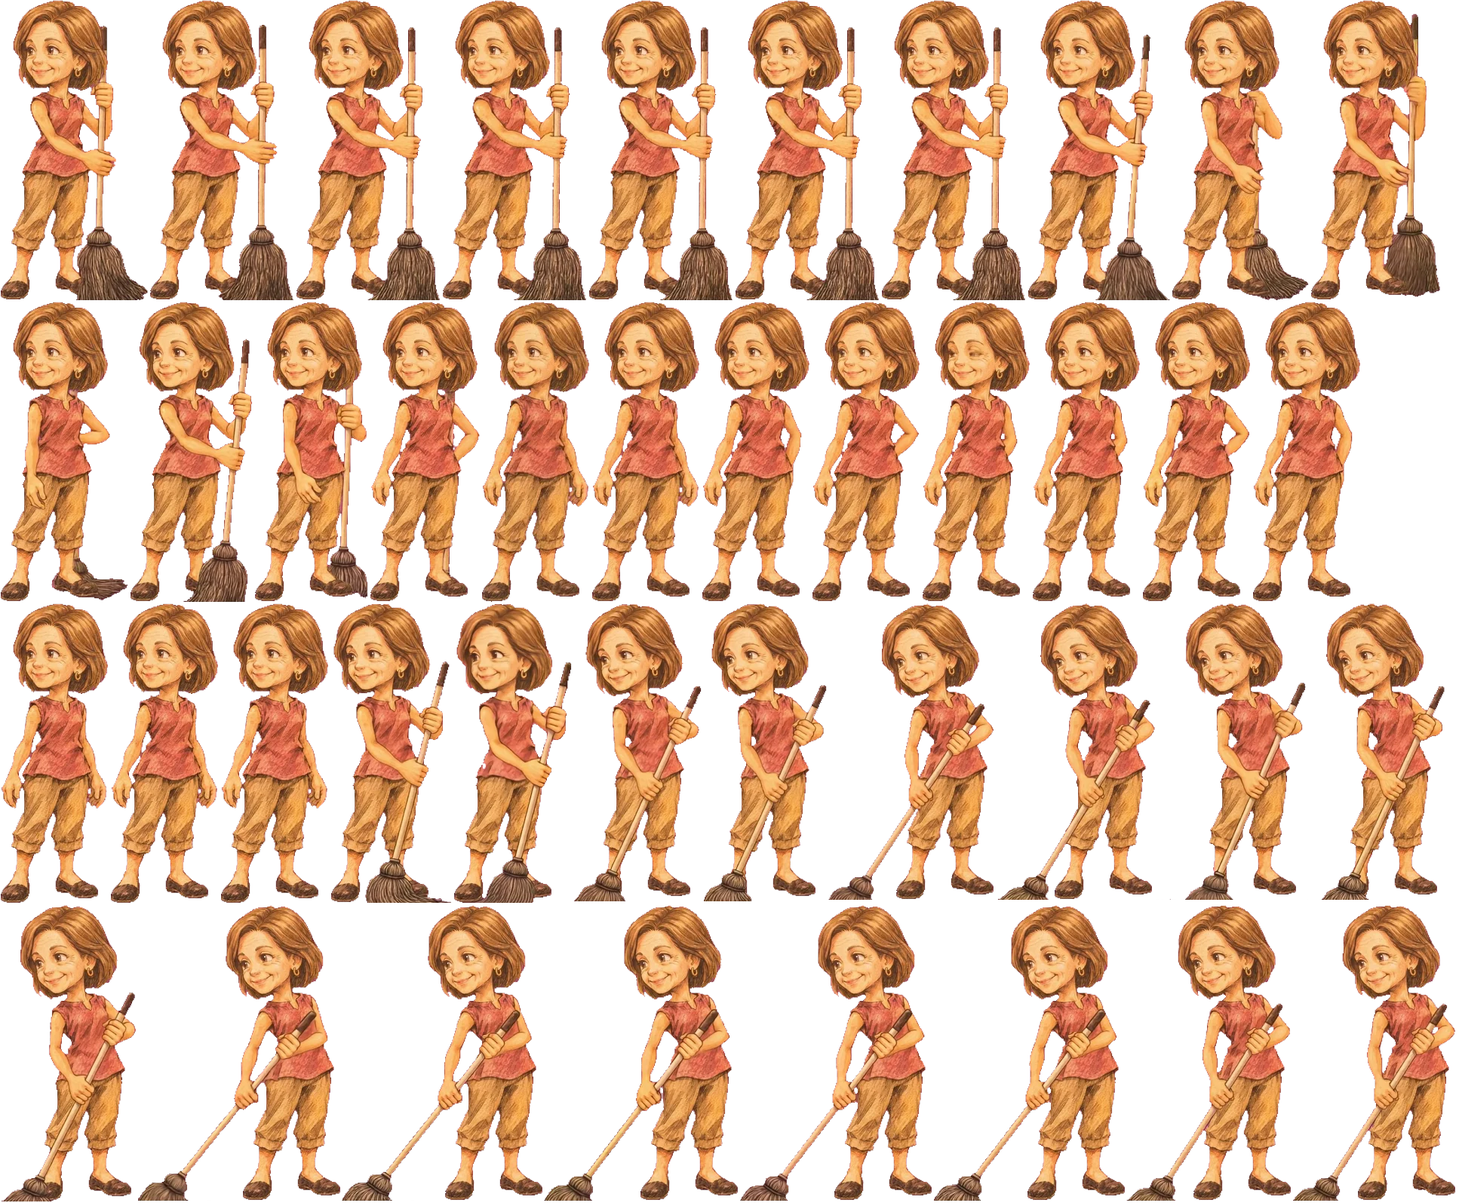
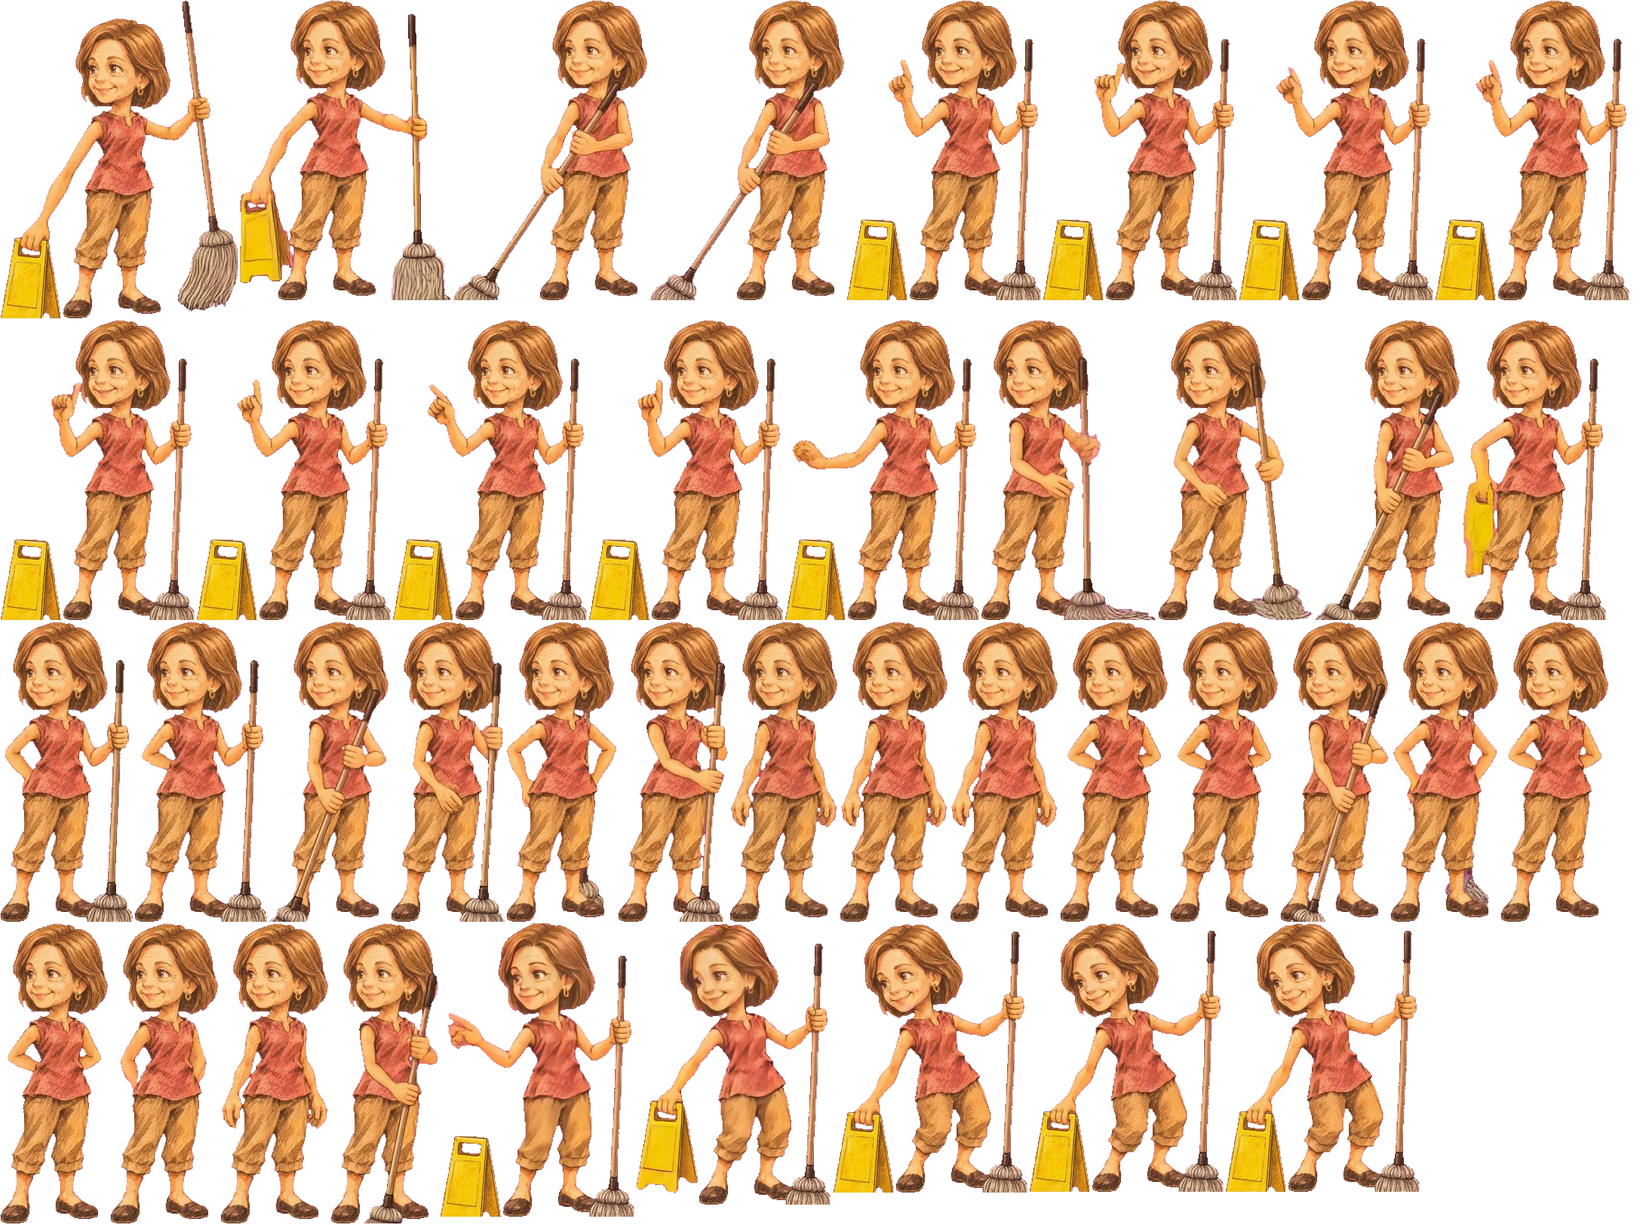
wanpurpose1: the video check judges the move's purpose, not every word; Deedee's Wet-Floor uses the take with the wet-floor sign
Claude-Session: https://claude.ai/code/session_01RXeukEJKXVspWj8C79SgbR

diff --git a/data/clips/deedee-wetfloor.js b/data/clips/deedee-wetfloor.js
@@ -1,5 +1,5 @@
 'use strict';
 // data/clips/deedee-wetfloor.js: GENERATED by tools/clip-bake/bake_clip.py; do not hand-edit. Read by engine/clips.js.
-// Source frames 0 to 120 of the video, every 3, impact at video frame 51, played at 1.5x.
-// Baked from: wanstuck1 by eye: deedee-wetfloor-r9.mp4 (string mop; the look check failed it on "once" and "from behind her back")
-bclipDefine("deedee_wetfloor",{"owner":"deedee","src":"art/clips/deedee-wetfloor.webp?v=wanstuck1","k":4,"w":108,"h":101,"n":41,"rects":[[638,400,144,398,144,6],[784,400,144,398,144,6],[930,400,144,398,144,6],[1076,400,144,398,144,6],[1222,400,144,398,144,6],[1368,400,144,398,144,6],[490,400,146,398,144,6],[337,400,151,398,144,6],[1737,0,172,398,144,6],[198,0,192,398,144,6],[392,0,192,398,144,6],[586,0,192,398,144,6],[1362,0,189,398,144,6],[438,800,161,397,144,7],[932,800,164,395,125,9],[1098,800,219,393,55,11],[721,1200,257,392,17,12],[453,1200,266,392,8,12],[1493,1200,218,392,56,12],[0,1200,181,393,100,11],[1533,800,198,393,89,11],[1733,800,182,393,102,11],[1713,1200,216,392,58,12],[980,1200,255,392,19,12],[183,1200,268,392,6,12],[1237,1200,254,392,20,12],[1319,800,212,393,66,11],[760,800,170,395,119,9],[601,800,157,397,144,7],[172,400,163,398,144,6],[780,0,192,398,144,6],[974,0,192,398,144,6],[1168,0,192,398,144,6],[0,0,196,398,144,6],[1553,0,182,398,144,6],[0,400,170,398,144,6],[1514,400,144,398,144,6],[1660,400,144,398,144,6],[0,800,144,398,144,6],[146,800,144,398,144,6],[292,800,144,398,144,6]],"ms":[0,83,167,250,333,417,500,583,667,750,833,917,1000,1083,1167,1250,1333,1417,1500,1583,1667,1750,1833,1917,2000,2083,2167,2250,2333,2417,2500,2583,2667,2750,2833,2917,3000,3083,3167,3250,3333],"dur":3417,"kind":"strike","impact":17,"reach":[52.0,2.2],"feet":[[-1.8,32.2],[-1.8,32.2],[-1.8,32.2],[-1.8,32.2],[-1.8,32.2],[-1.8,32.2],[-1.8,32.2],[0.8,37.2],[3.5,42.8],[5.9,47.5],[5.9,47.5],[5.9,47.5],[5.5,46.8],[2.0,39.8],[-4.1,37.0],[-13.0,54.8],[-17.8,64.2],[-18.9,66.5],[-12.8,54.2],[-7.1,43.0],[-6.5,41.8],[-4.8,38.2],[-12.5,53.8],[-17.4,63.5],[-19.1,67.0],[-17.2,63.2],[-11.1,51.0],[-4.9,38.5],[-1.8,32.2],[1.5,38.8],[5.9,47.5],[5.9,47.5],[5.9,47.5],[6.5,48.8],[4.6,45.0],[3.1,42.0],[-1.8,32.2],[-1.8,32.2],[-1.8,32.2],[-1.8,32.2],[-1.8,32.2]]});
+// Source frames 0 to 117 of the video, every 3, impact at video frame 60, played at 1.25x.
+// Baked from: wanpurpose1 by eye: deedee-wetfloor-a2-r10.mp4 (string mop sweep, wet-floor sign set down, finger wag); the motion check failed it on details only
+bclipDefine("deedee_wetfloor",{"owner":"deedee","src":"art/clips/deedee-wetfloor.webp?v=clip0","k":4,"w":98,"h":107,"n":40,"rects":[[967,824,144,398,124,30],[1113,824,144,398,124,30],[1259,824,144,398,124,30],[1405,824,144,398,124,30],[1551,824,144,398,124,30],[671,824,146,398,124,30],[1535,424,206,398,124,30],[1300,424,233,398,124,30],[438,1224,143,398,124,30],[356,824,160,398,108,30],[600,0,259,398,9,30],[861,0,259,398,9,30],[1743,424,193,398,75,30],[1697,824,144,398,124,30],[819,824,146,398,124,30],[518,824,151,398,124,30],[0,824,176,398,124,30],[178,824,176,398,124,30],[1938,424,192,398,108,30],[843,1224,259,373,41,55],[1364,1224,258,356,41,72],[1624,1224,258,356,41,72],[1104,1224,258,357,41,71],[583,1224,258,389,41,39],[1122,0,258,398,41,30],[1382,0,258,398,41,30],[1642,0,258,398,41,30],[1902,0,258,398,41,30],[0,424,258,398,41,30],[260,424,258,398,41,30],[520,424,258,398,41,30],[780,424,258,398,41,30],[1040,424,258,398,41,30],[0,0,316,422,41,6],[318,0,280,398,74,30],[1843,824,144,398,124,30],[1989,824,144,398,124,30],[0,1224,144,398,124,30],[146,1224,144,398,124,30],[292,1224,144,398,124,30]],"ms":[0,100,200,300,400,500,600,700,800,900,1000,1100,1200,1300,1400,1500,1600,1700,1800,1900,2000,2100,2200,2300,2400,2500,2600,2700,2800,2900,3000,3100,3200,3300,3400,3500,3600,3700,3800,3900],"dur":4000,"kind":"strike","impact":20,"reach":[38.5,8.5],"feet":[[-1.8,32.2],[-1.8,32.2],[-1.8,32.2],[-1.8,32.2],[-1.8,32.2],[-1.8,32.2],[7.5,50.8],[11.0,57.8],[-1.8,32.2],[-3.8,36.2],[-16.1,61.0],[-16.1,61.0],[-7.9,44.5],[-1.8,32.2],[-0.5,34.8],[0.8,37.2],[4.0,43.8],[4.0,43.8],[3.9,43.5],[-6.5,64.2],[-6.5,64.2],[-6.5,64.2],[-6.5,64.2],[-6.5,64.2],[-6.5,64.2],[-6.5,64.2],[-6.5,64.2],[-6.5,64.2],[-6.5,64.2],[-6.5,64.2],[-6.5,64.2],[-6.5,64.2],[-6.5,64.2],[-0.6,76.0],[4.2,69.8],[-1.8,32.2],[-1.8,32.2],[-1.8,32.2],[-1.8,32.2],[-1.8,32.2]]});

diff --git a/index.html b/index.html
@@ -1654,7 +1654,7 @@ html.landscape:not(.tablet):not(.duo) #battle.v2 .b2-x{font-size:17px}html.lands
 <script src="data/clips/toad-slam.js?v=clip0"></script>
 <script src="data/clips/skeeter-whine.js?v=artbake1573"></script>
 <script src="data/clips/skeeter-bite.js?v=wanch3"></script>
-<script src="data/clips/deedee-wetfloor.js?v=wanstuck1"></script>
+<script src="data/clips/deedee-wetfloor.js?v=wanpurpose1"></script>
 <script src="data/clips/rose-giddyup.js?v=clip0"></script>
 <script src="data/tombo-frames.js"></script>
 <script src="engine/tombo-frames.js"></script>
@@ -1980,7 +1980,7 @@ html.landscape:not(.tablet):not(.duo) #battle.v2 .b2-x{font-size:17px}html.lands
 <script src="engine/emotions.js?v=qa-bug02"></script>
 <script src="engine/script-edits.js?v=scripted2"></script><!-- Script Editor overlay: Tom's line edits applied before a scene plays (script.html) --><!-- mood faces and poses in story dialogue (batch 0: chapter 1) -->
 <script src="engine/tapwalk.js?v=bossbig1"></script><!-- tap to walk -->
-<script src="data/build-history.js?v=menu4"></script><!-- build names and times (tools/build_history.py) -->
+<script src="data/build-history.js?v=wanpurpose1"></script><!-- build names and times (tools/build_history.py) -->
 <script src="engine/build-history.js?v=buildpill1"></script><!-- build label on the welcome screen and menu, tap for the build history -->
 <script src="engine/m2-core.js?v=menu4"></script><!-- the main menu (menu1, the only menu since menu4) -->
 <script src="engine/m2-family.js?v=menu1"></script><!-- its Family page -->
@@ -1990,7 +1990,7 @@ html.landscape:not(.tablet):not(.duo) #battle.v2 .b2-x{font-size:17px}html.lands
 <script src="engine/block-break.js?v=ch7t1"></script><!-- breaking an orange block: coin, cracks, colour ring, shrink-back, encounters off (ch6build stage 2) -->
 <script src="engine/scene-props.js?v=qa-coh07"></script><!-- drawn stand-in props a scene can put on a map: the chart, Rose rolled up, the gold ball, bulbs (ch7build stage 2) -->
 <script src="engine/video-call.js?v=ch6s4"></script><!-- the video call at the end of chapter 6: Long Island seen from Tom's porch (ch6build stage 4) -->
-<script src="engine/main.js?v=menu4"></script>
+<script src="engine/main.js?v=wanpurpose1"></script>
 <script src="engine/music.js"></script>
 <script src="data/songs.js"></script>
 <script src="engine/music-clips.js?v=adminvol1"></script>

diff --git a/data/build-history.js b/data/build-history.js
@@ -1,5 +1,6 @@
 // Generated by tools/build_history.py. Do not edit by hand. Newest first.
 const BUILD_HISTORY=[
+{"tag":"wanpurpose1","at":"2026-11-21T21:52:44-08:00","what":"The video check judges the move's purpose, not every word; Deedee's Wet-Floor uses the take with the wet-floor sign","card":"c-wanpurpose1","theme":"Battle Animations"},
 {"tag":"menu4","at":"2026-11-22T05:48:58+00:00","what":"The new menu is the only menu and the old one is gone","card":"c-menu4","theme":"Game Shell"},
 {"tag":"videohist2","at":"2026-11-22T05:34:11+00:00","what":"Video History rebuilds itself after every video run","card":"c-videohist-auto","theme":"Battle Animations"},
 {"tag":"videohist1","at":"2026-11-21T21:26:25-08:00","what":"ADMIN > VIDEO HISTORY shows every battle video, whether it is in the game, and why the checks rejected the rest","card":"c-videohist1","theme":"Battle Animations"},

diff --git a/engine/main.js b/engine/main.js
@@ -110,7 +110,7 @@ startSplash();
   const d=document.createElement('button');
   d.type='button'; d.id='build-stamp'; d.setAttribute('aria-label','Build history');
   // On an iPhone Duo the stamp also shows the page size and pose the game measured, so Tom can read them back (docs/DUO.md).
-  d.textContent='build menu4';
+  d.textContent='build wanpurpose1';
   const build=d.textContent,stamp=()=>{ const w=typeof buildWhenLabel==='function'?buildWhenLabel(build.slice(6)).slice(2):'', duo=typeof duoMode!=='undefined'&&duoMode.device?window.innerWidth+'x'+window.innerHeight+(duoMode.open?' duo open':' duo folded'):'';
     d.textContent=build; for(const t of [w,duo]) if(t){ const s=document.createElement('small'); s.textContent=t; d.appendChild(s); } };
   window.BUILD_TAG=build.slice(6);

diff --git a/tools/art-library/wanbulk.py b/tools/art-library/wanbulk.py
@@ -158,7 +158,7 @@ def stop_card(r, job, card, run, today, bud=None, cfg=None):
             'Its files are on branch wangen: %s-r%d-result.json (every check with numbers and the look-check answers) and the videos %s. '
             'First look at the pictures yourself (ffmpeg contact sheet of each video) and say in one line what really happens. '
             'Then change ONE thing in the job by that cause (the prompt sentence that causes it, the pad, or the start picture), keeping everything else (CLAUDE.md, Fix a miss with the smallest change), '
-            'raise rev by one and say in `why` what was kept and what changed. If both videos look like they meet the motion and the checks are wrong, say so in a history line, change nothing and stop: that is a check problem for Tom. '
+            'raise rev by one and say in `why` what was kept and what changed. But first: if a video does the move\'s main action and reads as the move (Tom 2026-11-21: it does not have to be perfect in every single way, it has to complete the overall purpose and theme), accept it instead of trying again: bake and wire it with tools/art-library/wanbake.py (bake() and wire() with the job\'s own settings), add its job to the open Tom watch card (field wanwatch) or make one, write the CHANGES heading and push, and start no new try. Only the measured faults that break the game picture (cut off at the edge, background not flat, feet sliding, a different person) always need a new try. '
             'Never make a painted pose and never run wangen.py yourself. Start the next try in the same push: set `wgen` on card %s to {"want": true, "at": now, "n": 1, "est": %.2f, "auto": true}, '
             'keep the job in its `wan.jobs`, write the CHANGES heading `## %s` and run bump_tags, and make the LAST commit of the push have exactly the subject `board: wan generate %s` (that starts the wan-gen Action). '
             'Your first push is the commit board: start %s. Attach trivituso81/adventures-of-tom with push access (add_repo).') % (

diff --git a/tools/art-library/wanbulk_test.py b/tools/art-library/wanbulk_test.py
@@ -16,6 +16,7 @@ a local bare git remote plays GitHub. The run is the real script on a depth 1 cl
   B9  wanauto1: a miss that is not only the edge is re-rolled once with the same settings (same start picture) before it stops
   B10 wanauto1: budget() counts one animation's videos since its auto_from (4 tries, $3.20) and every video of the day ($15)
   B11 wanauto1: an animation out of tries gets one Tom decide card instead of a Claude card
+  B13 wanpurpose1: the motion check asks one question about the move's main action, not one strict question per sentence
   B12 wanstuck1: Tom's "Give it 4 more tries" answer resets that job's count; the card names the run's card
 Prints ALL PASS."""
 import os, sys, io, json, re, shutil, subprocess, tempfile, threading, base64, time, urllib.request
@@ -302,6 +303,11 @@ ok(mt == {'j': '2026-11-22T04:29:46.570Z'} and jobs_m['j']['auto_from'] == '2026
    'B12 "Give it 4 more tries" starts that job\'s count again from the answer time; another job or another answer changes nothing', mt)
 gc2 = wanbulk.gaveup_card('j', 3, 'x', None, '2026-11-22', 'r1', cfg, 't-card')
 ok(gc2.get('wan_card') == 't-card', 'B12 the out-of-tries card names the card whose run makes the job (the wan-gen Action runs it on the answer)')
+
+import wanqa
+qs = wanqa.questions('WHAT THIS IS\nx\n\nMOTION: TEST\nShe sweeps the mop once. She puts it away and stands still.')
+ok([q[0] for q in qs] == ['f_same', 'p1'] and 'Small differences do NOT matter' in qs[1][1] and 'sweeps the mop once' in qs[1][1] and 'puts it away' in qs[1][1],
+   'B13 wanpurpose1: one motion question about the whole move (purpose, not word for word), not one strict question per sentence', [q[0] for q in qs])
 
 # ------------------------------------------------------------------ B8 the stored r4 videos, if the machine has them
 rv = '/tmp/wb'

diff --git a/tools/art-library/wanqa.py b/tools/art-library/wanqa.py
@@ -179,8 +179,15 @@ def motion_sentences(prompt, cap=4):
 def questions(prompt):
     """[(id, text)]: f_same, then p1.. one per motion sentence. Yes = fine."""
     q = [('f_same', 'Is it the same person in every picture, with the same face, hair, outfit and drawing style as in the start picture (Image 2)? Say no if the face, hair, outfit or the colours of skin and clothes change.')]
-    for i, s in enumerate(motion_sentences(prompt)):
-        q.append(('p%d' % (i + 1), 'Reading the pictures in order, does this happen, once and clearly: "%s"  Say no if it does not happen, happens twice, or something else happens instead.' % s))
+    # wanpurpose1 (Tom 2026-11-21 21:36: "it doesn't have to be perfect in every single way, but it does have to complete the overall purpose and theme").
+    # One question about the move as a whole, not one strict question per sentence: the per-sentence form ("once and clearly... say no if it happens twice")
+    # rejected all 6 Deedee Wet-Floor videos it judged for details (the mop not coming from behind her back, two strokes instead of one), $9.63 in all.
+    m = ' '.join(motion_sentences(prompt))
+    if m:
+        q.append(('p1', 'Reading the pictures in order, does the video show the main action of this description well enough to be used as this battle move in a '
+                  'game? "%s"  Small differences do NOT matter: how many strokes, steps or waves, exactly where an object comes from or goes, the exact pose, or the '
+                  'order of small details. Say no only if the main action is missing, a clearly different action happens instead, the person flips, spins round, '
+                  'falls or turns away from the camera, or the action keeps repeating over and over.' % m))
     return q
 
 

diff --git a/CLAUDE.md b/CLAUDE.md
@@ -47,7 +47,7 @@ Tom: "for any conversation i initiate, check against the board to see if it's an
 
 **wanbulk1 (2026-11-21): videos in bulk, checked and put in the game by the Action.** Tom (14:51): "Why do we have to do an opus prompt for every individual animation? This seems wasteful of my Claude usage. Can we do a bulk generation ?" A Tom card with `wan: {jobs, cap}` has Generate all N videos (two taps, commit `board: wan generate <id>`); the `wan-gen` Action (`wangen.py --bulk`, `wanbulk.py`, `wanqa.py`, `wanbake.py`) makes the jobs, measures every video (plan 4.4 checks 3 to 5) and has a vision model check the motion and the person (three runs, majority), makes ONE retry of a video that failed only the edge check with the next pad of `_bulk.pads`, stops anything else (one Claude card `c-wanstop-<job>-r<rev>`, Opus 5.5 medium, evidence on it), bakes what passes by the `bake` settings stored on its job and wires it from its `wire` field, and adds one Tom watch card. A job file entry may carry `bake`, `wire`, `airborne`, `returns: false`, `skip_checks`, `limits` (the last three with a `why`). A session never makes a paid run; a session that is handed a stopped job changes ONE thing in it, raises `rev`, and Tom taps again. The plan's numbers are in one table (`LIMITS` in `wanqa.py`); change a number only on evidence and say so (section 4.12 of `claude/video-battle-plan.md` has the replay of the 46 stored videos). Tests: `python3 tools/art-library/wanbulk_test.py`, `wangen_test.py`, `python3 tools/board_wan_test.py`. Plan and Built notes: `claude/video-battle-plan.md` 4.12.
 
-**wanauto1 (2026-11-21): battle videos finish without Tom.** Tom (18:09): "why has it taken me all day to record like 4 animations? ... why has the card come to me like a dozen times?" Cause: every miss went through him twice (paste a fix prompt, tap Generate). Tom (18:11) said yes to: the Action may spend up to $3.20 per animation and $15 a day without his tap. Now: a miss is re-rolled once with every setting the same (an edge-only miss gets the smaller pad instead); a second miss stops it and the run adds `c-wanstop-<job>-r<rev>` as a Sonnet 5.5 medium card with `auto` and `start` (the board job starts it at once; `board-sync` wakes when wan-gen ends); that session looks at the frames, changes ONE thing, raises `rev` and starts the next try itself (`wgen.want` on the card named in `wan_card`, last commit subject `board: wan generate <card>`). An animation out of tries (`_bulk.auto` in `wangen-jobs.json`: 4 videos and $3.20 since the job's `auto_from`, $15 per UTC day for all videos, counted from the ledger by `budget` in `wanbulk.py`) gets one Tom decide card `t-wangaveup-<job>-r<rev>`. Passed videos collect on ONE open watch card (`wanwatch`). A session that writes new video jobs starts their run itself the same way; it still never runs wangen.py. This replaces the wanbulk1 line "the first paid run is Tom's tap" for battle videos only (pictures, voices and music are unchanged). The night table still holds: R9 keeps a fix card with `wan_card` waiting between 11 pm and 3 am and starts it after. wanstuck1: a paid workflow's `concurrency` sits on its job, never on the workflow (at workflow level an unrelated push cancels a waiting paid run); Tom's "Give it 4 more tries" on an out-of-tries card resets that job's count and starts the run (`more_tries`, `wan_card`). Plan: `claude/video-battle-plan.md` 4.14. Tests: `wanbulk_test.py` B9 to B12, `board_wan_test.py`.
+**wanauto1 (2026-11-21): battle videos finish without Tom.** Tom (18:09): "why has it taken me all day to record like 4 animations? ... why has the card come to me like a dozen times?" Cause: every miss went through him twice (paste a fix prompt, tap Generate). Tom (18:11) said yes to: the Action may spend up to $3.20 per animation and $15 a day without his tap. Now: a miss is re-rolled once with every setting the same (an edge-only miss gets the smaller pad instead); a second miss stops it and the run adds `c-wanstop-<job>-r<rev>` as a Sonnet 5.5 medium card with `auto` and `start` (the board job starts it at once; `board-sync` wakes when wan-gen ends); that session looks at the frames, changes ONE thing, raises `rev` and starts the next try itself (`wgen.want` on the card named in `wan_card`, last commit subject `board: wan generate <card>`). An animation out of tries (`_bulk.auto` in `wangen-jobs.json`: 4 videos and $3.20 since the job's `auto_from`, $15 per UTC day for all videos, counted from the ledger by `budget` in `wanbulk.py`) gets one Tom decide card `t-wangaveup-<job>-r<rev>`. Passed videos collect on ONE open watch card (`wanwatch`). A session that writes new video jobs starts their run itself the same way; it still never runs wangen.py. This replaces the wanbulk1 line "the first paid run is Tom's tap" for battle videos only (pictures, voices and music are unchanged). The night table still holds: R9 keeps a fix card with `wan_card` waiting between 11 pm and 3 am and starts it after. wanstuck1: a paid workflow's `concurrency` sits on its job, never on the workflow (at workflow level an unrelated push cancels a waiting paid run); Tom's "Give it 4 more tries" on an out-of-tries card resets that job's count and starts the run (`more_tries`, `wan_card`). wanpurpose1 (Tom 21:36: "it doesn't have to be perfect in every single way, but it does have to complete the overall purpose and theme"): the motion check asks ONE question about the move's main action (`questions` in `wanqa.py`), not a strict question per sentence; a stop session that sees the purpose met by eye accepts the video (bake, wire, watch card) instead of a new try. Plan: `claude/video-battle-plan.md` 4.14. Tests: `wanbulk_test.py` B9 to B13, `board_wan_test.py`.
 
 **copydocs (2026-11-20): a START run reads the repo copy.** The `claude/` folder in this repo holds copies of the Project's claude/*.md docs that this file or an open card names; a START run (no Project attached) reads those, and a session that changes one of them in the Project writes the same text there in the same push (`claude/README.md`).
 

diff --git a/docs/CHANGES.md b/docs/CHANGES.md
@@ -1,3 +1,16 @@
+## wanpurpose1 (2026-11-21): the video check judges the move's purpose, not every word; Deedee's Wet-Floor uses the take with the wet-floor sign
+
+Card c-wanpurpose1. Tom (21:35): "this pattern has continued. I've now spent the most $10 trying to get the mop for DD. It's crazy" Tom (21:36): "it doesn't have to be perfect in every single way, but it does have to complete the overall purpose and theme". Fact: 13 Deedee Wet-Floor videos cost $9.63; the motion check judged 6 and rejected all 6, every time over details (the mop not coming from behind her back, two strokes instead of one); r9 and r10 were good by eye.
+
+| Change | Detail |
+|---|---|
+| Motion check | `questions` in tools/art-library/wanqa.py asks ONE question about the move as a whole: does it show the main action well enough to be this battle move? Small differences (strokes, where a prop comes from, exact pose) do not count; no only for a missing or different action, a flip, spin, fall or turning away, or endless repeats. It replaces one strict yes or no per prompt sentence ("once and clearly... say no if it happens twice") |
+| Stop sessions | A c-wanstop session that sees the purpose met by eye accepts the video (bake, wire, watch card) and starts no new try; only picture-breaking faults (edge, background, feet, a different person) always need a new try |
+| Deedee | deedee-wetfloor-a2-r10 baked by hand and wired (string mop sweep, a yellow wet-floor sign set down, a finger wag, back to her stance); it replaces r9. No new video. Retired: t-wetfloor-check, c-wanstop-deedee-wetfloor-r10 |
+| Video History | rebuilt (r10 shows as in the game) |
+
+Tests: wanbulk_test B13, wangen_test, smoke.
+
 ## menu4 (2026-11-22): the new menu is the only menu and the old one is gone
 
 Card c-menu4. Tom approved the redesign on t-menuux-decide (11-21 18:20). Nothing was run for money. Plan: claude/menuux-plan.md section 5.
